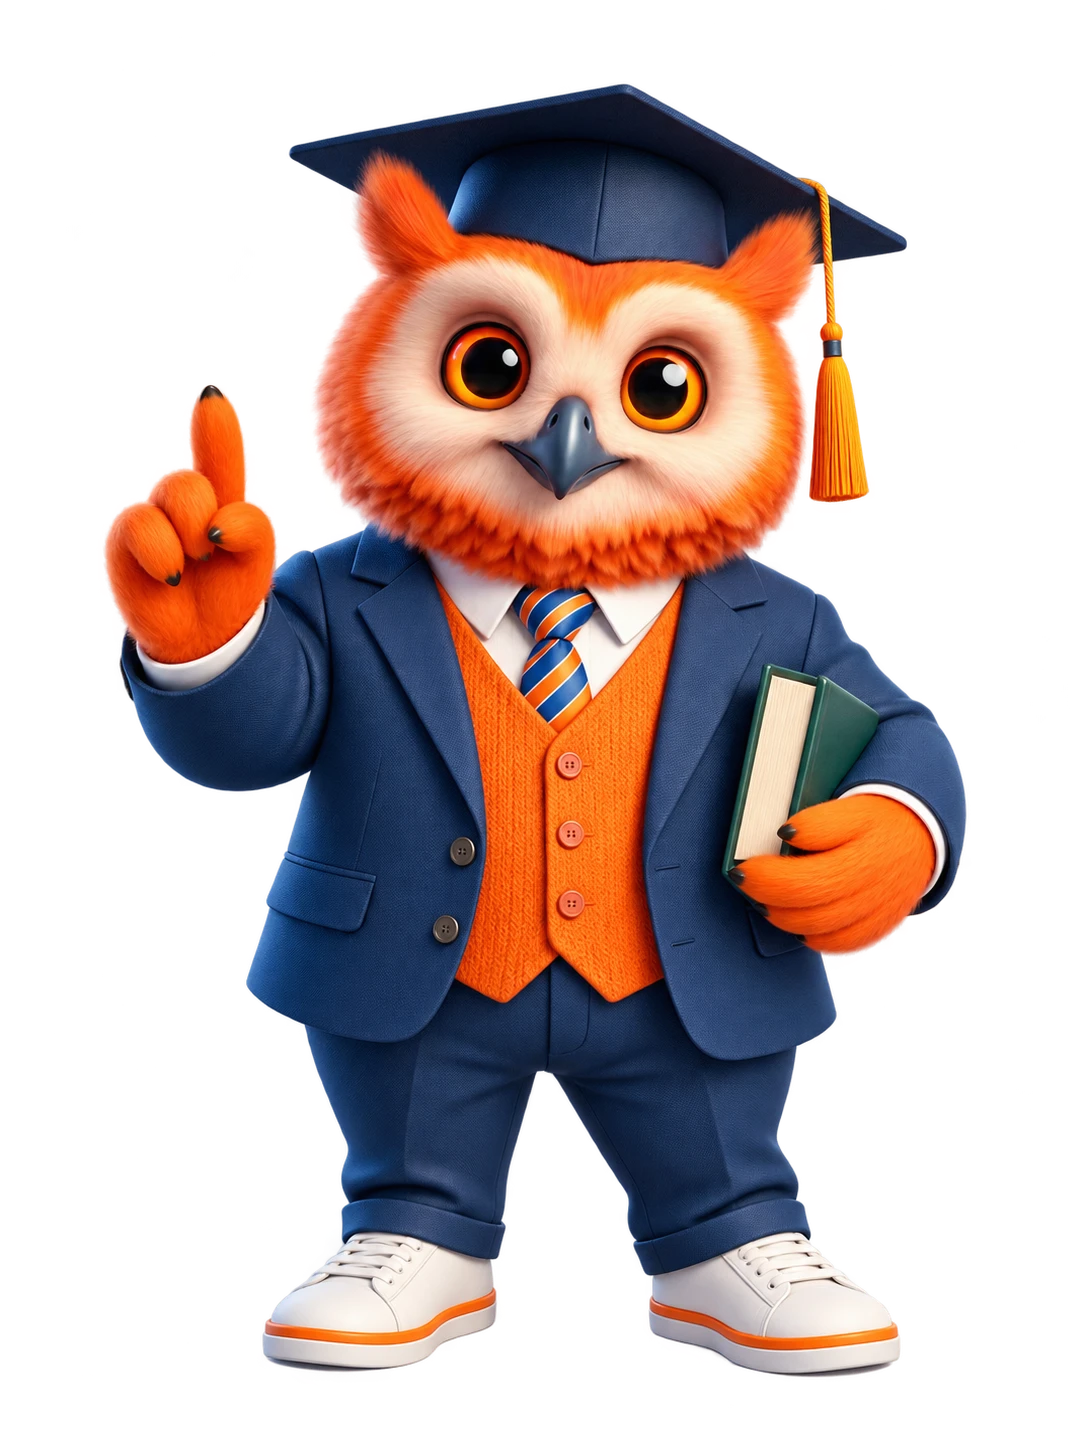
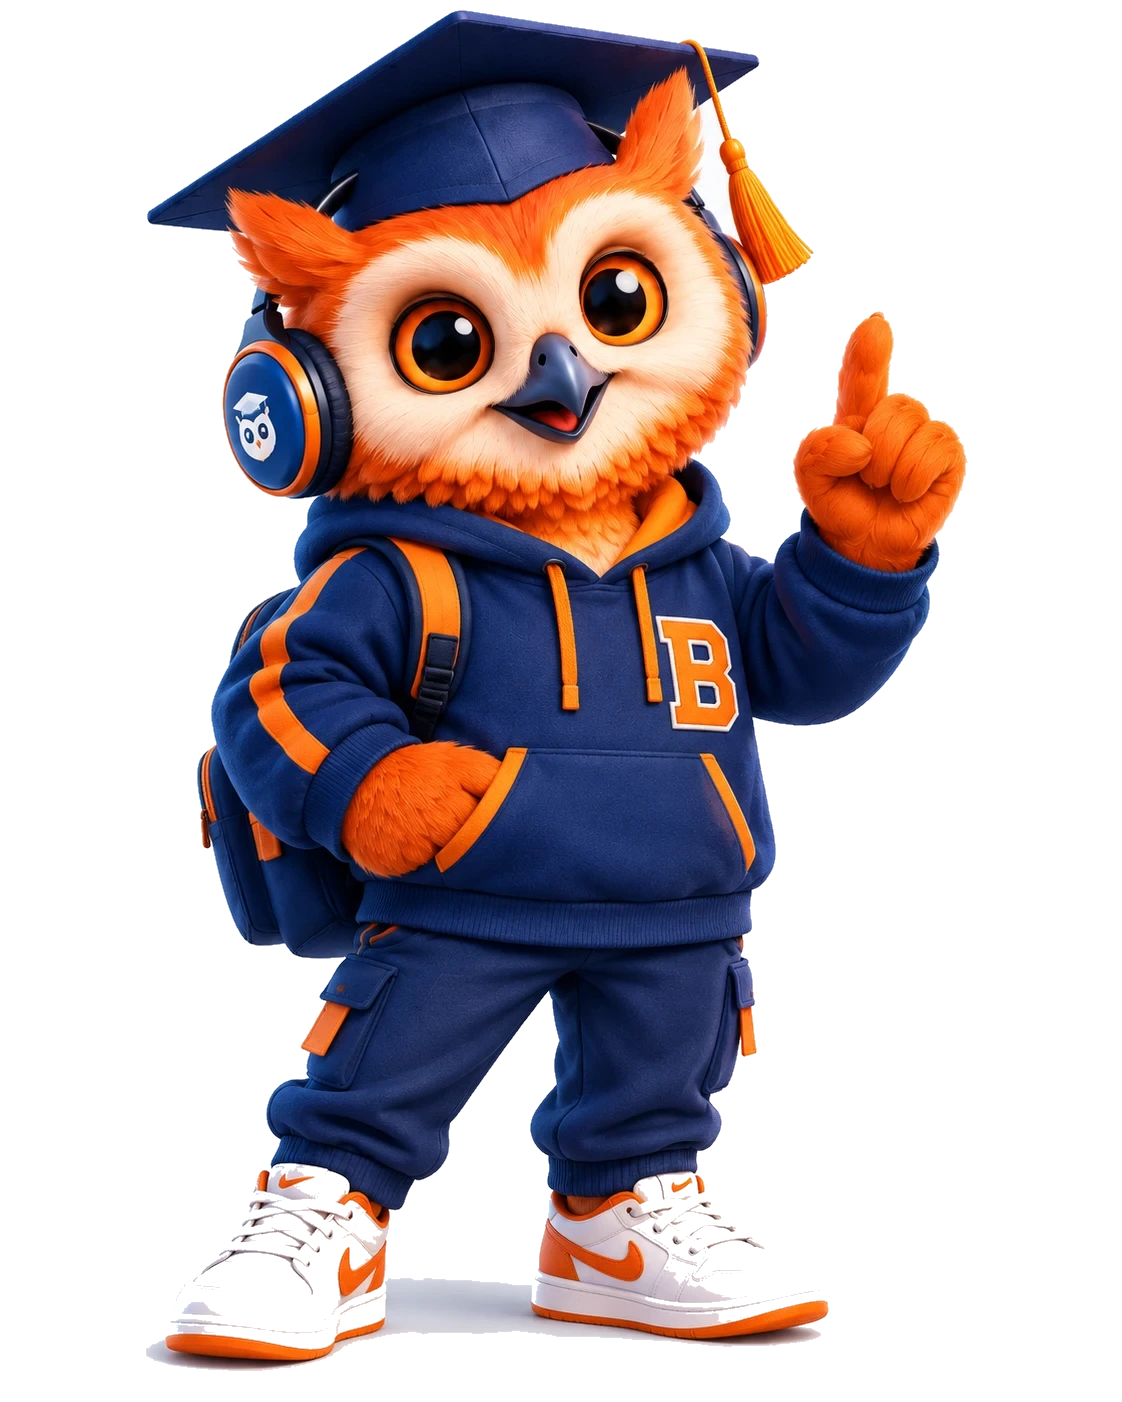
Nova arte do Bubo
Substitui o mascote no painel da Home e na tela de resultado. O arquivo veio
com fundo branco e passou pelo scripts/remove-background.mjs; as dimensões
mudaram de 1080x1440 para 1122x1402, então os atributos do Image acompanham
para não deslocar o layout enquanto a imagem carrega.

diff --git a/src/app/(app)/quizzes/resultado/page.tsx b/src/app/(app)/quizzes/resultado/page.tsx
@@ -62,8 +62,9 @@ export default async function ResultadoPage({
           <Image
             src="/bubo/bubo-pointing.webp"
             alt="Bubo, o mascote do eProf Línguas"
-            width={1080}
-            height={1440}
+            width={1122}
+            height={1402}
+            unoptimized
             priority
             className="mx-auto w-32"
           />

diff --git a/src/components/home/bubo-panel.tsx b/src/components/home/bubo-panel.tsx
@@ -14,8 +14,9 @@ export function BuboPanel() {
       <Image
         src="/bubo/bubo-pointing.webp"
         alt="Bubo, o mascote do eProf Línguas"
-        width={1080}
-        height={1440}
+        width={1122}
+        height={1402}
+        unoptimized
         className="mx-auto mt-4 w-40"
       />
 
